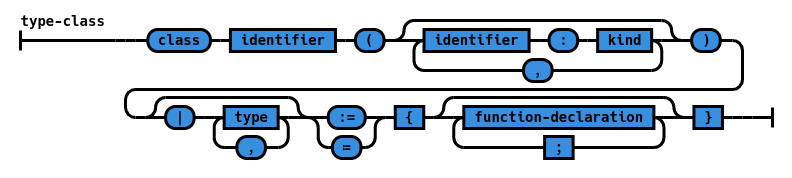
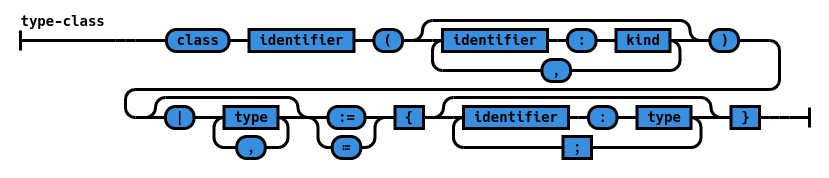
rework the grammar for typeclass bindings, to be more 'record'ish

diff --git a/part1-zilch.tex b/part1-zilch.tex
@@ -517,9 +517,9 @@ Such common interface can be used by referencing one of the functions defined by
 For a concrete example, see this example defining a type class for mappeable objects:
 
 \noindent\begin{minted}{\zilchlexer}
-  class Mappeable(f : (type) -> type) :=
+  class Mappeable(f : type -> type) :=
     -- Provides a way to map a value behind a container type through a pure function.
-    def<a, b> map(f : (a) -> b, x : f a) : f b
+    map : forall<a, b> (a -> b, f a) -> f b
 \end{minted}
 \vspace*{\baselineskip}
 
@@ -527,8 +527,8 @@ Note that defining this type class is mainly equivalent to creating a record ske
 So the type class defined above is really not that much different from this:
 
 \noindent\begin{minted}{\zilchlexer}
-  record Mappeable(f : (type) -> type) :=
-    map : forall<a, b> ((a) -> b, f a) -> f b
+  record Mappeable(f : type -> type) :=
+    map : forall<a, b> (a -> b, f a) -> f b
 \end{minted}
 
 \begin{figure}[H]

diff --git a/railroad-diagrams.py b/railroad-diagrams.py
@@ -1302,7 +1302,11 @@ def zilch_typeclass():
 			),
 			NonTerminal('{'),
 			ZeroOrMore(
-				NonTerminal('function-declaration'),
+				Sequence(
+				    NonTerminal('identifier'),
+				    Terminal(':'),
+				    NonTerminal('type')
+				),
 				NonTerminal(';')
 			),
 			NonTerminal('}')
@@ -1675,4 +1679,4 @@ def zilch_letin():
 
 	return mk_diagram2('let-in', inner)
 
-zilch_record().writeSvg(sys.stdout.write)
+zilch_typeclass().writeSvg(sys.stdout.write)
